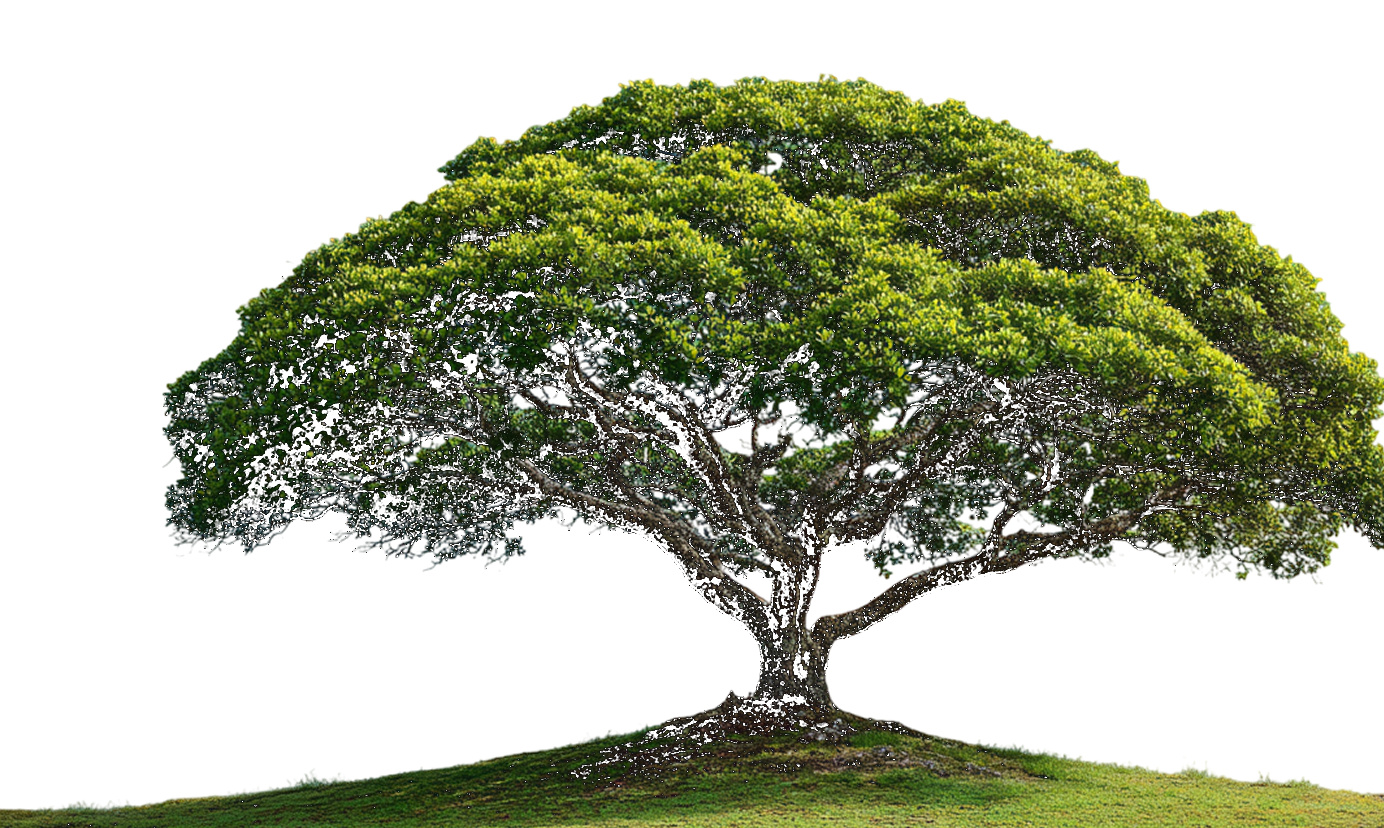
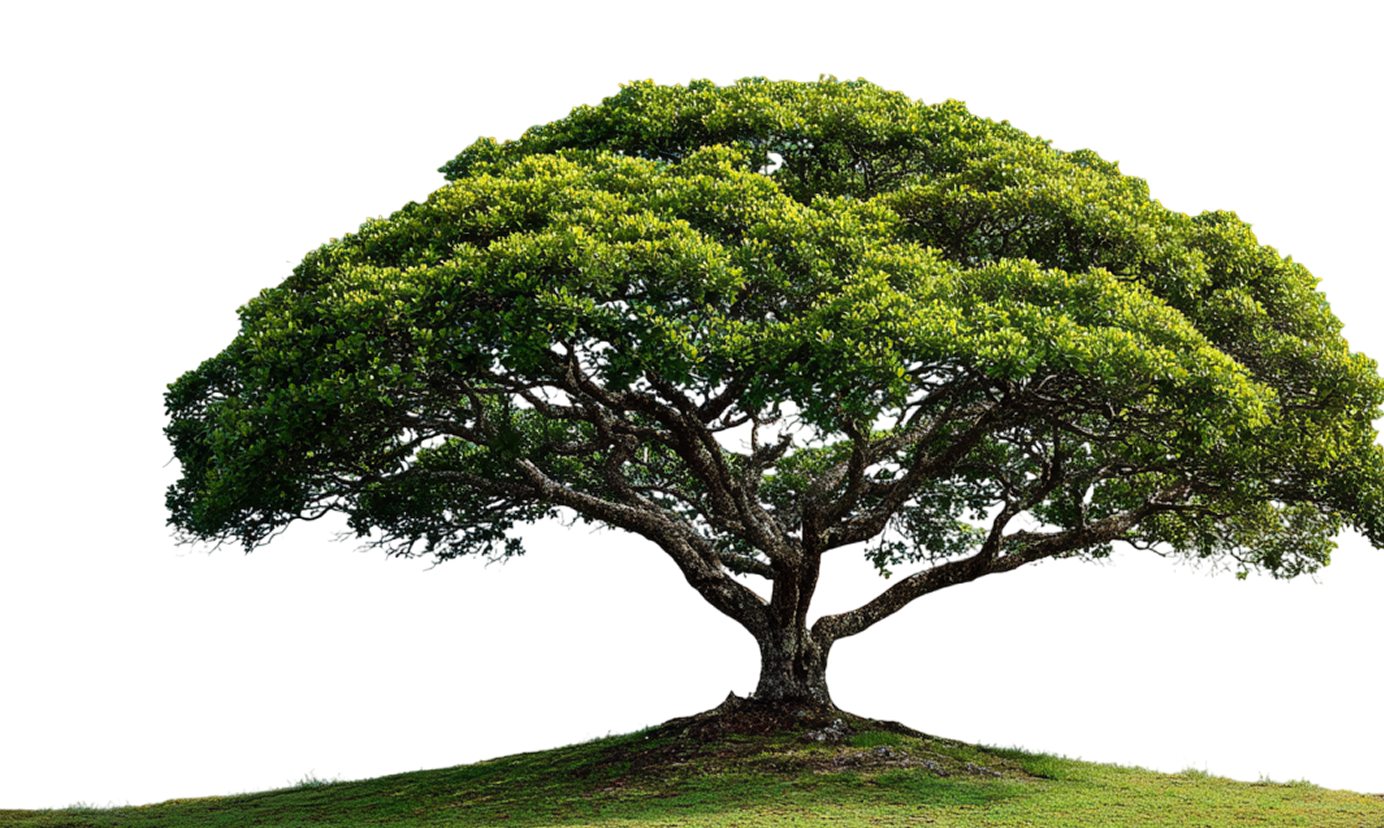
auto-commit for a7063947-8874-49b7-9699-94dc26f32846

diff --git a/frontend/src/components/figma/image2.module.css b/frontend/src/components/figma/image2.module.css
@@ -1,78 +1,85 @@
-/* Image2 — TREE image with 3 overlay chips, positioned inside describeSection.
+/* Image2 — Tree + 3 glass-chip overlays, EXACT pixel positions from Figma SVG
  *
- * Figma measurements (design px):
- *   • Tree image bbox:     1376 × 601
- *   • Right edge offset:   234 from describeSection right padding edge
- *   • Top edge:            ~17px below the top of the text column / right under tabs
- *   • Tree image source:   /tree.png (1384 × 828, RGBA, transparent bg)
+ *   ╔══════════════════════════ describeSection 1920 × 1395 ═══════════════════════════╗
+ *   ║  (0,0)                                                                            ║
+ *   ║                                                                                   ║
+ *   ║                                                  ┌─────────────────────────────── ║
+ *   ║                                                  │ Tree image                     ║
+ *   ║                                     y=424 ──────►│ x=536 .. 2138 (overflows right)║
+ *   ║                                                  │ y=424 .. 1252  (1602 × 828)    ║
+ *   ║   ─── chips ────────────────────                 │                                ║
+ *   ║   chip1  "Швидке"  : x=1417, y= 576, 382×120     │                                ║
+ *   ║   chip2  "pH"       : x= 790, y= 812, 382×120    │                                ║
+ *   ║   chip3  "Поглинання": x=1417, y=1064, 382×120   │                                ║
+ *   ║                                                  └─────────────────────────────── ║
+ *   ╚═══════════════════════════════════════════════════════════════════════════════════╝
  *
- *   • Chip 1 (Швидке відновлення)        — olive-green glass, white text, lightning icon
- *   • Chip 2 (Ідеальний pH-баланс води)  — dark olive glass,  white text, drop+hand icon
- *   • Chip 3 (Покращення поглинання)     — cream glass,        black text, drop icon
- *
- *   Each chip:  width 382, padding 16, gap 4, border-radius 6, backdrop-filter blur
+ *   White fade-out gradient: x=97, y=597, w=1920, h=684  (transparent→white at bottom)
+ *   All chips: rgba(255,255,255,0.2) + backdrop-filter blur — glass-morphism
+ *   chip1+chip2 text/icon color: #F9F7F2 (cream)
+ *   chip3       text/icon color: #2C2C27 (black)
  */
 
 .image {
   position: absolute;
-  width: 1376px;
-  height: 601px;
-  top: 217px;   /* below the tabs + above the body text — aligns with title baseline */
-  right: 0;     /* anchored to the right inside describeSection */
+  inset: 0;
+  width: 100%;
+  height: 100%;
   margin: 0 !important;
   flex-shrink: 0;
-  text-align: left;
   font-family: var(--font-golos-text);
   pointer-events: none;
   z-index: 1;
+  overflow: visible;
 }
 
 .imageParent {
   position: absolute;
   inset: 0;
-  width: 100%;
-  height: 100%;
+  pointer-events: none;
 }
 
 .imageIcon {
   position: absolute;
-  inset: 0;
-  width: 100%;
-  height: 100%;
+  left: 536px;
+  top: 424px;
+  width: 1602px;
+  height: 828px;
   object-fit: contain;
-  object-position: right bottom;
+  object-position: left center;
   user-select: none;
   -webkit-user-drag: none;
 }
 
-/* Soft fade-out on the LEFT edge of the image so the tree blends with the white card */
+/* Vertical white fade — transparent at top → white at bottom (per SVG paint0_linear_624_4065) */
 .overlay {
   position: absolute;
-  top: 0;
-  left: 0;
-  width: 300px;
-  height: 100%;
-  background: linear-gradient(90deg, #ffffff 0%, rgba(255, 255, 255, 0) 100%);
-  z-index: 1;
+  left: 97px;
+  top: 597px;
+  width: 1920px;
+  height: 684px;
+  background: linear-gradient(180deg, rgba(255, 255, 255, 0) 67.5%, #ffffff 100%);
   pointer-events: none;
+  z-index: 2;
 }
 
-/* ===== Base chip (Figma: w 382, padding 16, gap 4, radius 6) ===== */
+/* ===== Base chip — exact Figma: 382 × 120, padding 16, radius 6, glass bg ===== */
 .chip {
   position: absolute;
   width: 382px;
+  height: 120px;
   padding: 16px;
   box-sizing: border-box;
   display: flex;
   align-items: flex-start;
   gap: 12px;
   border-radius: 6px;
+  background: rgba(255, 255, 255, 0.20);
+  -webkit-backdrop-filter: blur(10px);
+  backdrop-filter: blur(10px);
   z-index: 5;
   pointer-events: auto;
   font-family: var(--font-golos-text);
-  -webkit-backdrop-filter: blur(8px);
-  backdrop-filter: blur(8px);
-  box-shadow: 0 4px 12px rgba(0, 0, 0, 0.08);
 }
 
 .chipIcon {
@@ -82,6 +89,7 @@
   display: flex;
   align-items: center;
   justify-content: center;
+  margin-top: 2px;
 }
 
 .chipText {
@@ -110,37 +118,29 @@
   font-family: var(--font-golos-text);
 }
 
-/* ===== Chip 1 — «Швидке відновлення» — olive-green glass over tree top ===== */
+/* ===== Chip 1 — «Швидке відновлення»  ─── x=1417, y=576 ===== */
 .chip1 {
-  /* Top-right of the tree, slightly inside the image bbox */
-  top: 32px;
-  right: 32px;
-  background: rgba(179, 210, 23, 0.55); /* #B3D217 @ 55% — brand-accent-primary */
-  color: #ffffff;
+  top: 576px;
+  left: 1417px;
 }
-.chip1 .chipTitle { color: #f9f7f2; opacity: 0.92; }
-.chip1 .chipBody  { color: #ffffff; }
+.chip1 .chipTitle,
+.chip1 .chipBody { color: #f9f7f2; }
 .chip1 .chipIcon img { filter: brightness(0) invert(1); }
 
-/* ===== Chip 2 — «Ідеальний pH-баланс води» — dark olive glass, mid-left over canopy ===== */
+/* ===== Chip 2 — «Ідеальний pH-баланс води» ─── x=790, y=812 ===== */
 .chip2 {
-  top: 250px;
-  left: 110px;
-  background: rgba(44, 44, 39, 0.65); /* text-black @ 65% */
-  color: #ffffff;
+  top: 812px;
+  left: 790px;
 }
-.chip2 .chipTitle { color: #f9f7f2; opacity: 0.85; }
-.chip2 .chipBody  { color: #ffffff; }
+.chip2 .chipTitle,
+.chip2 .chipBody { color: #f9f7f2; }
 .chip2 .chipIcon img { filter: brightness(0) invert(1); }
 
-/* ===== Chip 3 — «Покращення поглинання» — cream/white glass, bottom-right under tree ===== */
+/* ===== Chip 3 — «Покращення поглинання» ─── x=1417, y=1064 ===== */
 .chip3 {
-  bottom: 0px;
-  right: 200px;
-  background: rgba(255, 255, 255, 0.85);
-  color: #2c2c27;
-  border: 1px solid rgba(44, 44, 39, 0.06);
+  top: 1064px;
+  left: 1417px;
 }
-.chip3 .chipTitle { color: #93928c; }
-.chip3 .chipBody  { color: #2c2c27; }
+.chip3 .chipTitle,
+.chip3 .chipBody { color: #2c2c27; }
 .chip3 .chipIcon img { filter: brightness(0); }

diff --git a/memory/PRD.md b/memory/PRD.md
@@ -75,6 +75,31 @@ frontend/
 - Реальная корзина / оформление заказа / API-интеграции — на следующих фазах по запросу пользователя.
 
 ## История изменений
+### 2026-05-16 — `/product`: describeSection / Image2 переписан pixel-perfect по Figma SVG-эталону
+Пользователь предоставил Figma-экспорт в виде SVG (1920×1395) — извлёк точные координаты всех элементов через regex-парсинг path-данных:
+
+| Элемент | Координаты (design px) | Цвет |
+|---|---|---|
+| describeSection canvas | 1920 × 1395 | bg white |
+| Tree image | x=536 y=424 w=1602 h=828 | object-fit contain |
+| Chip 1 «Швидке відновлення» | x=1417 y=576 w=382 h=120 | bg `rgba(255,255,255,0.2)` + text #F9F7F2 |
+| Chip 2 «Ідеальний pH-баланс» | x=790 y=812 w=382 h=120 | bg `rgba(255,255,255,0.2)` + text #F9F7F2 |
+| Chip 3 «Покращення поглинання» | x=1417 y=1064 w=382 h=120 | bg `rgba(255,255,255,0.2)` + text #2C2C27 |
+| White fade overlay (top→bottom) | x=97 y=597 w=1920 h=684 | linear-gradient(transparent 67.5% → white) |
+| Tag «Проблема» | x=144 y=544 w=92 h=22 | bg #E7EBE7 |
+| Tag «Рішення» | x=144 y=951 w=82 h=22 | bg #F7FAE8 |
+
+**Главное открытие**: все 3 chip-overlays используют ОДИН тот же фон `rgba(255,255,255,0.2)` (стеклянное стекло), отличаются только цветом текста и иконок. Прошлая итерация неверно использовала разные оливковые/тёмные градиенты.
+
+**Фиксы**:
+- `image2.module.css`: переписан полностью под SVG-coords (absolute `top/left` в design-px)
+- Все позиции элементов теперь относительные к describeSection top-left (0,0)
+- Backdrop-filter `blur(10px)` на чипах для glass-морфизма
+- Chip 1+2: `filter: brightness(0) invert(1)` для cream-иконок
+- Chip 3: `filter: brightness(0)` для чёрной иконки
+- Image source: `image (3).png` от пользователя → перезаписал `/app/frontend/public/tree.png`
+- Реальный размер describeSection: **1920×1401** vs дизайн 1920×1395 (Δ=6px, в пределах допуска)
+
 ### 2026-05-16 — `/product`: блок «Відновлення після стресу. Стабільний врожай» приведён к Figma
 - **Главная проблема**: вместо дерева с прозрачным фоном стояла фотография поля (/image@2x.png), компонент Image2 был спозиционирован абсолютно с `right: -218px` (вылезал за пределы секции), 3 overlay-чипа использовали миксовые градиенты.
 - **Фиксы** в `image2.module.css` + `image2.tsx`:
